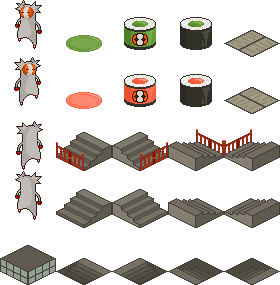
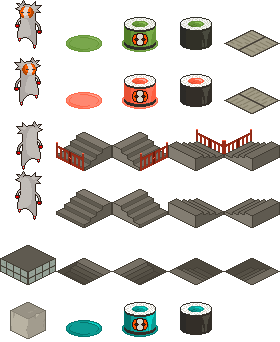
add 4 levels, new sprites and update objects properties

diff --git a/game/data/levels/test.tsx b/game/data/levels/test.tsx
@@ -3,15 +3,25 @@
  <properties>
   <property name="debug" value="false"/>
  </properties>
- <image source="test.png" width="280" height="285"/>
+ <image source="test.png" width="280" height="342"/>
+ <tile id="0">
+  <properties>
+   <property name="type" value="ned"/>
+  </properties>
+ </tile>
+ <tile id="1">
+  <properties>
+   <property name="type" value="green_plate"/>
+  </properties>
+ </tile>
  <tile id="2">
   <properties>
-   <property name="type" value="maki"/>
+   <property name="type" value="green_maki_ok"/>
   </properties>
  </tile>
  <tile id="3">
   <properties>
-   <property name="type" value="maki_vert"/>
+   <property name="type" value="green_maki"/>
   </properties>
  </tile>
  <tile id="4">
@@ -26,12 +36,52 @@
  </tile>
  <tile id="6">
   <properties>
-   <property name="type" value="plateau_rouge"/>
+   <property name="type" value="pink_plate"/>
+  </properties>
+ </tile>
+ <tile id="7">
+  <properties>
+   <property name="type" value="pink_maki_ok"/>
   </properties>
  </tile>
  <tile id="8">
   <properties>
-   <property name="type" value="maki_rouge"/>
+   <property name="type" value="pink_maki"/>
+  </properties>
+ </tile>
+ <tile id="10">
+  <properties>
+   <property name="type" value="ned"/>
+  </properties>
+ </tile>
+ <tile id="15">
+  <properties>
+   <property name="type" value="ned"/>
+  </properties>
+ </tile>
+ <tile id="20">
+  <properties>
+   <property name="type" value="wall"/>
+  </properties>
+ </tile>
+ <tile id="25">
+  <properties>
+   <property name="type" value="box"/>
+  </properties>
+ </tile>
+ <tile id="26">
+  <properties>
+   <property name="type" value="blue_plate"/>
+  </properties>
+ </tile>
+ <tile id="27">
+  <properties>
+   <property name="type" value="blue_maki_ok"/>
+  </properties>
+ </tile>
+ <tile id="28">
+  <properties>
+   <property name="type" value="blue_maki"/>
   </properties>
  </tile>
 </tileset>
